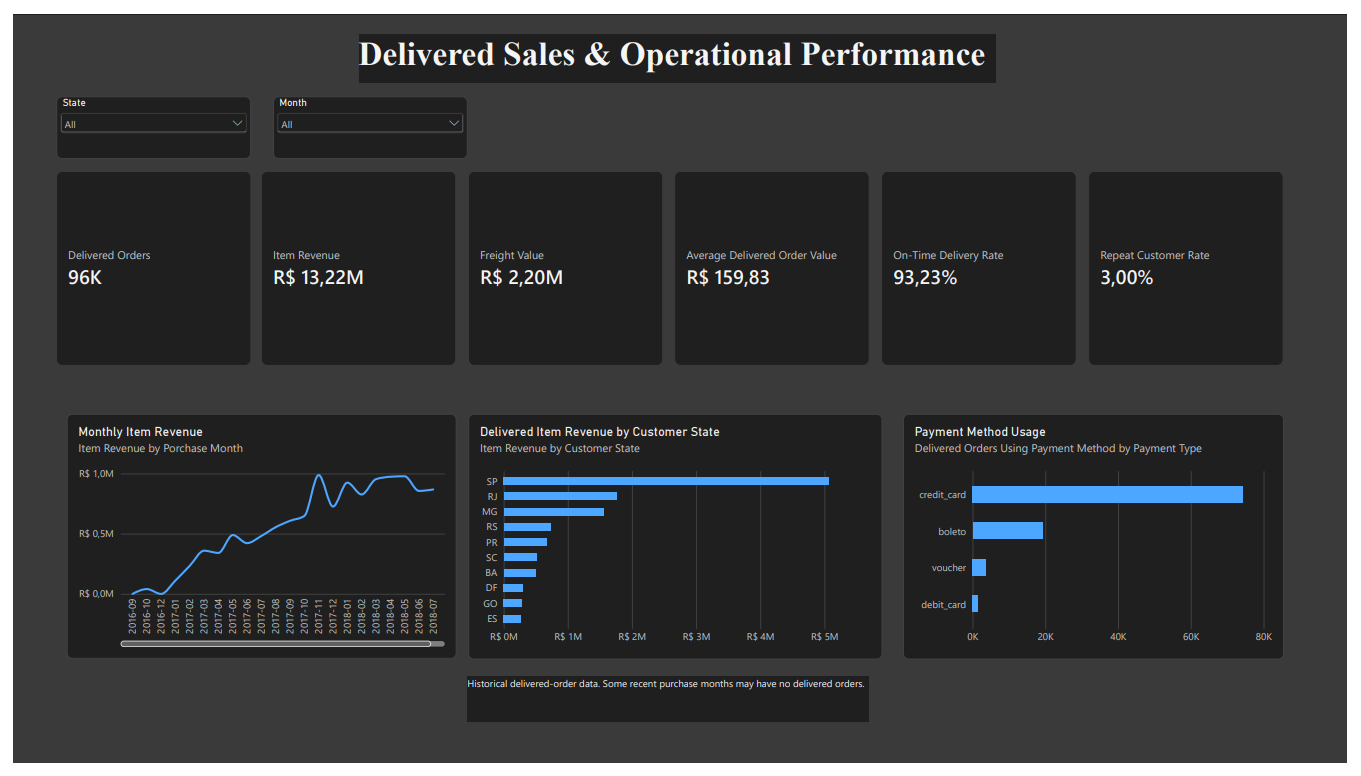
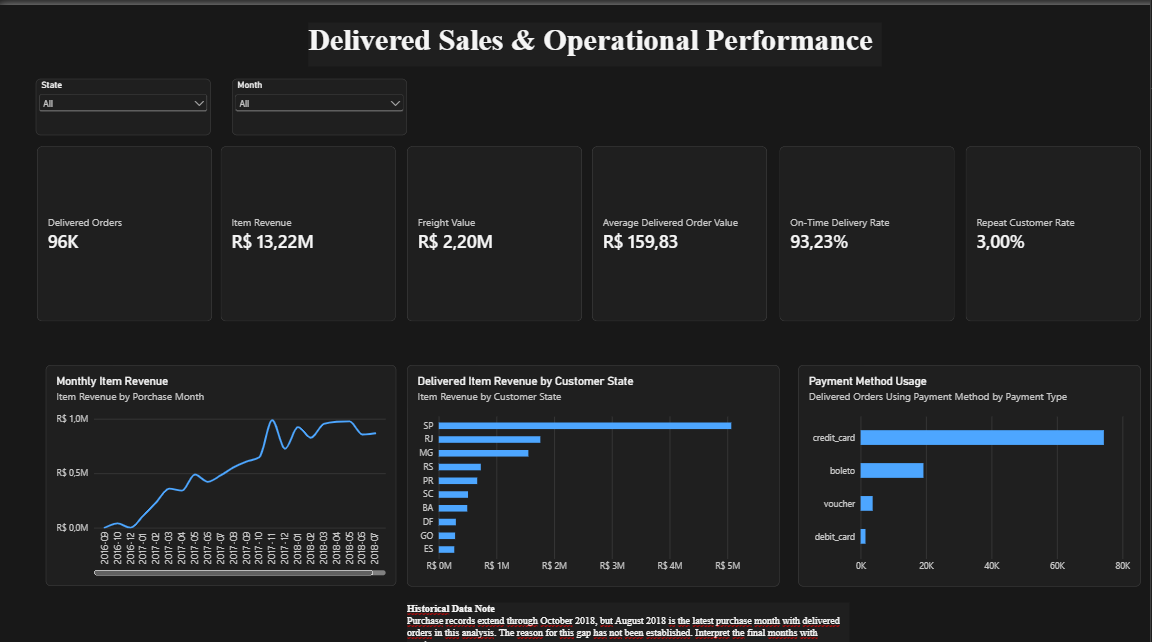
revision 3

diff --git a/docs/data_quality_findings.md b/docs/data_quality_findings.md
@@ -46,9 +46,53 @@ Purchase timestamps range from 2016-09-04 21:15:19 to 2018-10-17 17:30:18.
 
 Eight orders marked `delivered` have no `order_delivered_customer_date`. A valid on-time-delivery denominator therefore needs to require both delivery and estimated-delivery dates, as stated in the KPI principles.
 
-## Remaining interpretation checks
+## Timestamp chronology audit
 
-- Validate timestamp chronological consistency. Source timestamps are used as provided, without timezone conversion.
-- Review late-period completeness before interpreting monthly trends; source purchase timestamps extend beyond the latest month with delivered orders.
+The nine local source CSVs are present and their row counts match the documented profile. The `stg_orders` table has 99,441 rows and the same purchase timestamp range as the source CSV. Status and timestamp values in staging match the source after normalizing the date-only `order_estimated_delivery_date` field.
 
-Automated checks for preparation and metric logic are implemented in `tests/`. Payment and revenue treatment is defined in `docs/business_rules.md`.
+All five order date fields were parseable. Missing values were excluded from pairwise chronology checks, not counted as violations.
+
+| Timestamp field | Missing | Invalid |
+|---|---:|---:|
+| `order_purchase_timestamp` | 0 | 0 |
+| `order_approved_at` | 160 | 0 |
+| `order_delivered_carrier_date` | 1,783 | 0 |
+| `order_delivered_customer_date` | 2,965 | 0 |
+| `order_estimated_delivery_date` | 0 | 0 |
+
+| Rule | Valid pairs | Pairs without both dates | Violations |
+|---|---:|---:|---:|
+| Purchase after approval | 99,281 | 160 | 0 |
+| Approval after carrier handoff | 97,644 | 1,797 | 1,359 |
+| Carrier handoff after customer delivery | 96,475 | 2,966 | 23 |
+| Purchase after carrier handoff | 97,658 | 1,783 | 166 |
+| Purchase after customer delivery | 96,476 | 2,965 | 0 |
+| Purchase after estimated delivery date | 99,441 | 0 | 0 |
+| Approval after customer delivery (additional check) | 96,462 | 2,979 | 61 |
+
+The approval/carrier inversions comprise 1,350 delivered and 9 shipped orders. All 23 carrier/customer-delivery inversions are delivered orders. Purchase/carrier inversions comprise 165 delivered and 1 shipped order. The order statuses do not explain these inversions. They are also present in the source CSV; no correction or exclusion was applied.
+
+Examples from source records:
+
+| Rule | `order_id` | Status | First timestamp | Second timestamp |
+|---|---|---|---|---|
+| Approval after carrier handoff | `7c48bb55e8e4f7e56d412e9653db37bc` | delivered | approval: `2018-07-16 18:50:22` | carrier: `2018-01-26 13:35:00` |
+| Approval after carrier handoff | `1fab4ac9d85079b3da72a11475ae1685` | delivered | approval: `2017-09-13 22:06:11` | carrier: `2017-09-04 13:10:23` |
+| Carrier handoff after delivery | `c1e2bf2b7dd3309f2f5356c6b63968fa` | delivered | carrier: `2017-03-02 17:34:26` | customer: `2017-02-14 15:15:57` |
+| Carrier handoff after delivery | `fa3e37584f4fdb1ded0e0de700dfcb4e` | delivered | carrier: `2017-08-09 18:18:43` | customer: `2017-08-01 21:13:01` |
+
+The available data do not identify why these event timestamps are out of sequence. Use them as provided and do not infer corrected event times.
+
+## Recent monthly completeness
+
+The overall status counts remain consistent with the initial profile. The last purchase month with any delivered orders is August 2018.
+
+| Purchase month | Orders | Delivered | Not delivered | Missing customer delivery date | Missing estimated date |
+|---|---:|---:|---:|---:|---:|
+| 2018-06 | 6,167 | 6,099 | 68 | 71 | 0 |
+| 2018-07 | 6,292 | 6,159 | 133 | 136 | 0 |
+| 2018-08 | 6,512 | 6,351 | 161 | 161 | 0 |
+| 2018-09 | 16 | 0 | 16 | 16 | 0 |
+| 2018-10 | 4 | 0 | 4 | 4 | 0 |
+
+The September orders comprise 15 canceled and 1 shipped order; all four October orders are canceled. The source ends on 2018-10-17. These 20 late-period orders have no customer-delivery date because none is marked delivered; no estimated dates are missing. Their sparse volume and statuses support treating the series tail cautiously, but the local data alone do not establish why it is sparse or whether extraction timing caused it.

diff --git a/docs/initial_analytics_results.md b/docs/initial_analytics_results.md
@@ -14,7 +14,7 @@ Sales measures include orders with `order_status = 'delivered'` only. Item reven
 | Order value (items plus freight) | R$ 15,419,773.75 |
 | Average delivered order value | R$ 159.83 |
 
-Monthly results use `order_purchase_timestamp`. The latest month with delivered orders is August 2018, while source purchase timestamps extend into October 2018. Review late-period completeness before interpreting the end of the trend.
+Monthly results use `order_purchase_timestamp`. August 2018 is the latest purchase month with delivered orders. September contains 16 orders and October contains 4 orders through October 17; none is marked delivered. September has 15 canceled and 1 shipped order, and all four October orders are canceled. The delivered-sales series therefore ends in August. Treat September and October as a sparse observed tail, not as complete-month delivery performance; the local files do not establish why the tail is sparse.
 
 ## Delivery and reviews
 

diff --git a/powerbi/report_design.md b/powerbi/report_design.md
@@ -36,7 +36,7 @@ The report uses English labels and the approved metric rules in `../docs/busines
 
 - Format revenue measures as Brazilian reais (R$) with two decimals.
 - Format rates as percentages with two decimals.
-- Show a note that the data are historical and that the latest purchase dates do not have delivered orders in every month.
+- Show a note that the data are historical, the delivered-sales series ends in August 2018, and September (16 orders) and October through the 17th (4 orders) contain no delivered orders. Explain that these are sparse observed months and should not be read as complete-month delivery performance.
 
 ## Page 2 — Product Performance (tab name; canvas title: Product Revenue & Freight Performance)
 
